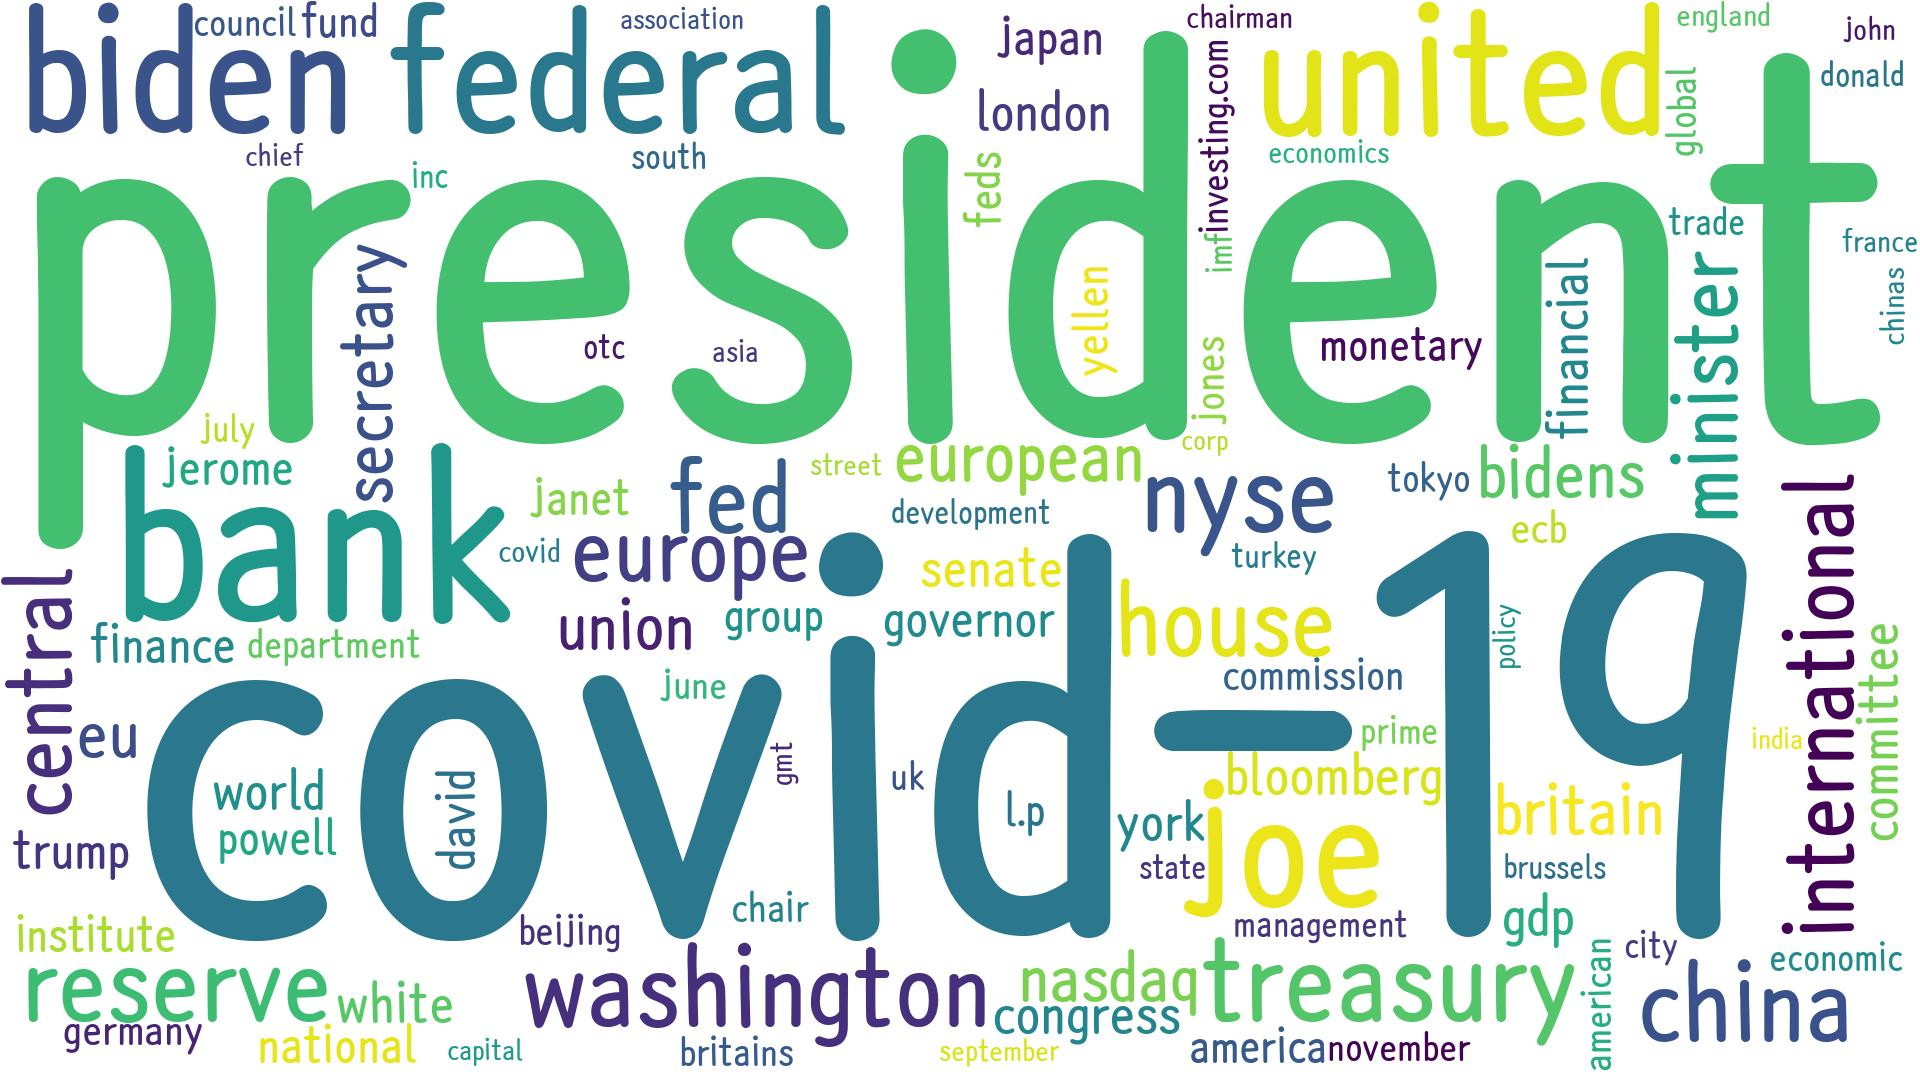
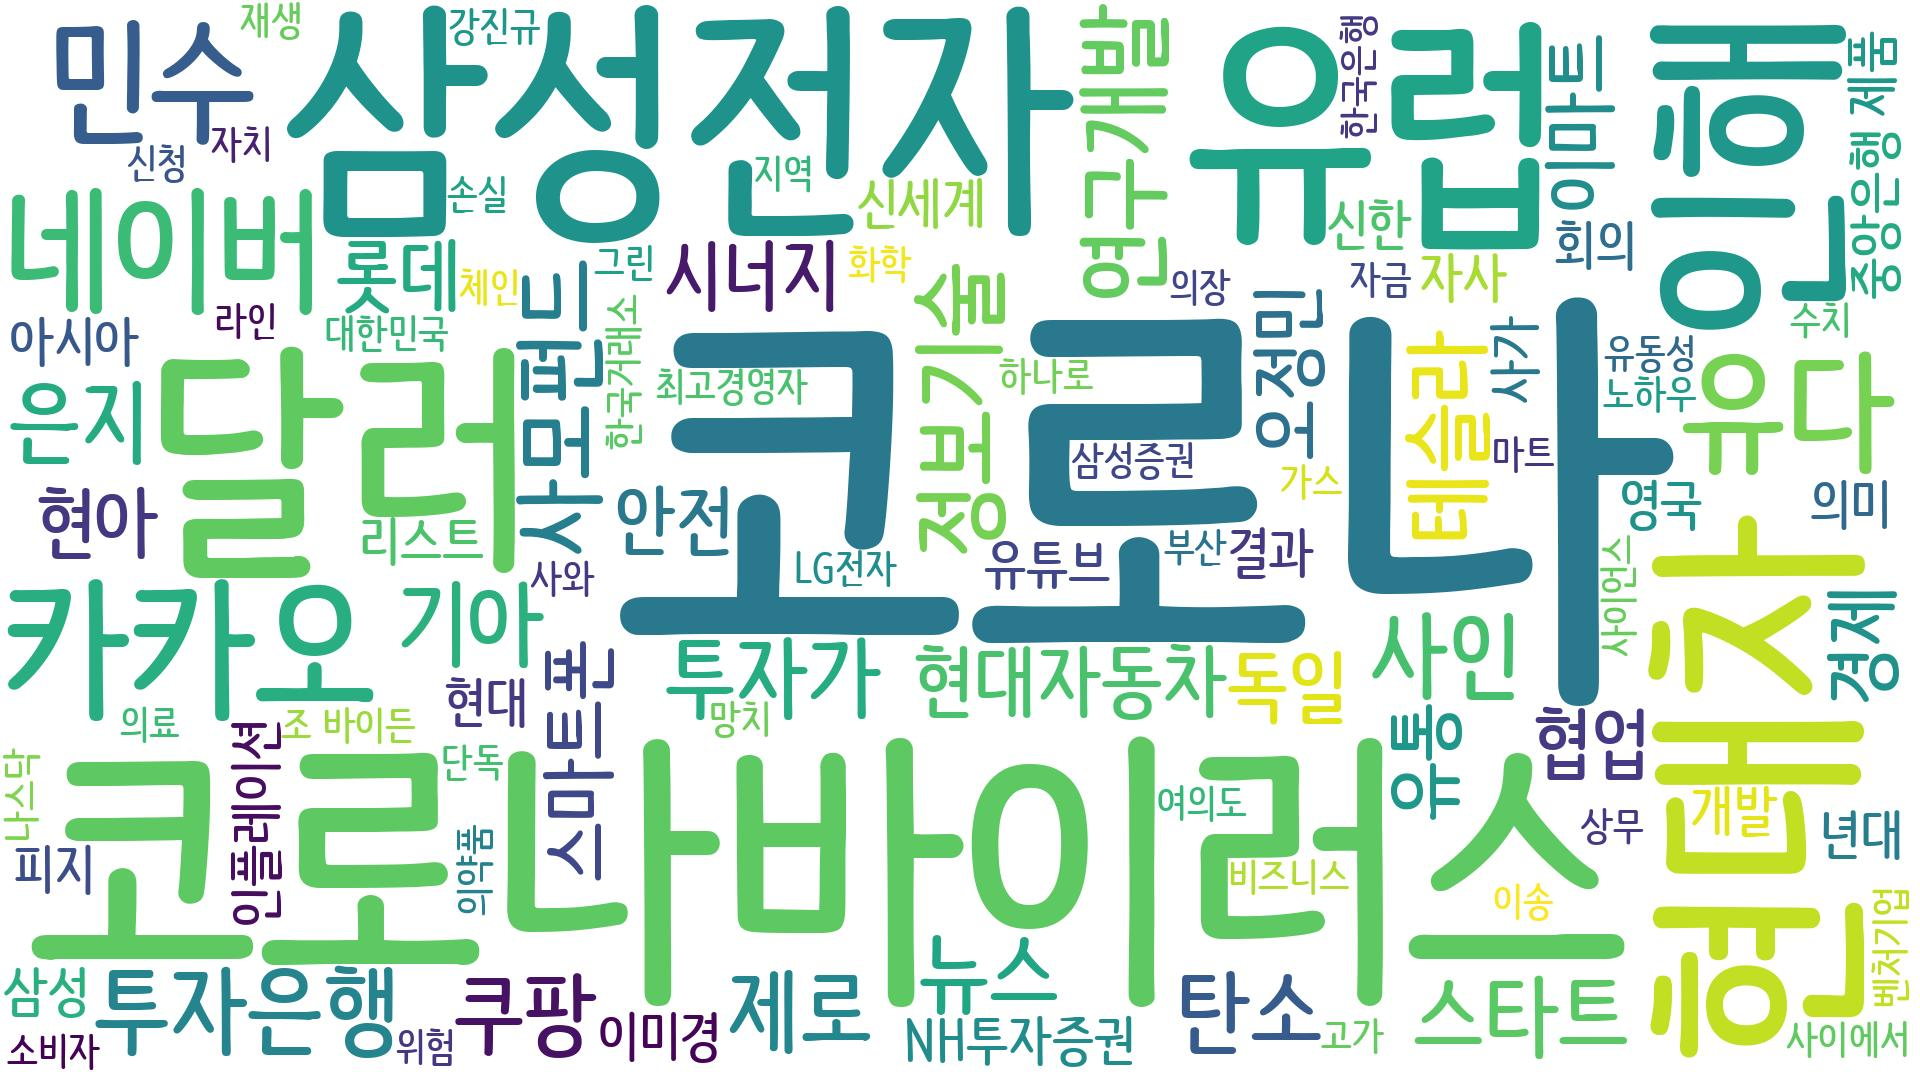
refactoring

diff --git a/pkg/templates/index.html b/pkg/templates/index.html
@@ -30,14 +30,11 @@
     <button class="btn btn-link btn-sm order-1 order-lg-0" id="sidebarToggle" style="padding: 15px 10px;"><i class="fas fa-bars"></i>
     </button>
     <!-- Navbar Search-->
+
+
     <form class="d-none d-md-inline-block form-inline ml-auto mr-0 mr-md-3 my-2 my-md-0">
-        <div class="input-group">
-            <input class="form-control" type="text" placeholder="Search for..." aria-label="Search"
-                   aria-describedby="basic-addon2"/>
-            <div class="input-group-append">
-                <button class="btn btn-primary" type="button"><i class="fas fa-search"></i></button>
-            </div>
-        </div>
+        <a href="/kr" style="color: gray">kr&nbsp;</a>
+        <a href="/us" style="color: gray">us</a>
     </form>
     <!-- Navbar-->
     <ul class="navbar-nav ml-auto ml-md-0">
@@ -164,7 +161,7 @@
                 <div class="card col-md-6" style="height:953px; width:3000px; overflow:auto">
                     <div class="card-header">
                         <i class="fas fa-table mr-1"></i>
-                        this month keywords 100
+                        month keywords 100
                     </div>
                     <div class="card-body">
                         <div class="table-responsive" >
@@ -214,7 +211,7 @@
                     <div class="card mb-4">
                         <div class="card-header">
                             <i class="fas fa-chart-bar mr-1"></i>
-                            this week keywords
+                            week keywords
                         </div>
                         <div class="card-body">
                             <canvas id="myBarChart" width="100%" height="40"></canvas>

diff --git a/pkg/static/assets/demo/chart-area-demo.js b/pkg/static/assets/demo/chart-area-demo.js
@@ -71,7 +71,7 @@ var ctx = document.getElementById("myAreaChart");
         },
         ticks: {
           min: 0,
-          max: 75,
+          max: 50,
           maxTicksLimit: 5
         },
         gridLines: {

diff --git a/pkg/flask_app.py b/pkg/flask_app.py
@@ -7,21 +7,34 @@ import pandas_datareader.data as web
 from wordcloud import WordCloud
 
 import keyword_data as kd
+import keyword_data_us as kdu
 
 
 app = Flask(__name__, template_folder='templates')
 corp_info = pd.read_csv('./corp_name_code.csv', sep=',', header=None, dtype={'code': object})
 corp_info = dict(corp_info.values)
 
-@app.route('/')
-def index():
-    table = enumerate(kd.get_month_keyword(), 1)
-    nodes, edges = kd.keyword_network(['삼성전자', '현대차', '기아', '카카오', '네이버', '코로나'])
-    day_list, day_count = kd.get_week_list()
-    max_cnt = (max(day_count)//10)*10 + 10
 
-    return render_template('index.html', table=table, nodes=nodes, edges=edges,
-                           day_count=list(day_count), day_list=list(day_list), max_cnt=max_cnt)
+@app.route('/us', endpoint='us')
+@app.route('/kr', endpoint='kr')
+@app.route('/', endpoint='kr')
+def index():
+    if request.endpoint == 'kr':
+        table = enumerate(kd.get_month_keyword(), 1)
+        nodes, edges = kd.keyword_network(['삼성전자', '현대차', '기아', '카카오', '네이버', '코로나'])
+        day_list, day_count = kd.get_week_list()
+        max_cnt = (max(day_count)//10)*10 + 10
+
+        return render_template('index.html', table=table, nodes=nodes, edges=edges,
+                               day_count=list(day_count), day_list=list(day_list), max_cnt=max_cnt)
+    else:
+        table = enumerate(kdu.get_month_keyword(), 1)
+        nodes, edges = kdu.keyword_network(['covid-19', 'biden', 'tesla', 'nyse', 'china', 'trump'])
+        day_list, day_count = kdu.get_week_list()
+        max_cnt = (max(day_count)//10)*10 + 10
+
+        return render_template('index.html', table=table, nodes=nodes, edges=edges,
+                               day_count=list(day_count), day_list=list(day_list), max_cnt=max_cnt)
 
 
 @app.route('/month_chart')
@@ -30,7 +43,6 @@ def month_chart():
     keyword = request.args.get('keyword')
     now = datetime.datetime.now()
     month_date = [(now - datetime.timedelta(days=x)).strftime('%Y-%m-%d') for x in reversed(range(1, 31))]
-    corp_name = '삼성전자'
 
     if any(s.isalpha() for s in stock):
         try:

diff --git a/pkg/flask_app_us.py b/pkg/flask_app_us.py
@@ -44,8 +44,7 @@ def month_chart():
         tmp = dict(zip(corp_info.values(), corp_info.keys()))
         if stock in tmp:
             corp_name = tmp[stock]
-    print(corp_name)
-    print(stock)
+
     df = web.DataReader(stock, 'naver', month_date[0], month_date[-1])
     df = df.Close.asfreq(freq='D', method='bfill')
     count = kd.get_day_by_day_count(keyword, df.index)

diff --git a/ckstorer.py b/ckstorer.py
@@ -287,8 +287,8 @@ class CKStorer:
 
 
 if __name__ == '__main__':
-    test = CKStorer('test_db', 'test_tb')
+    test = CKStorer()
     with test as t:
-        t.run(1, 10)
+        t.run(1, 3)
 
     # test.relation_keyword()
